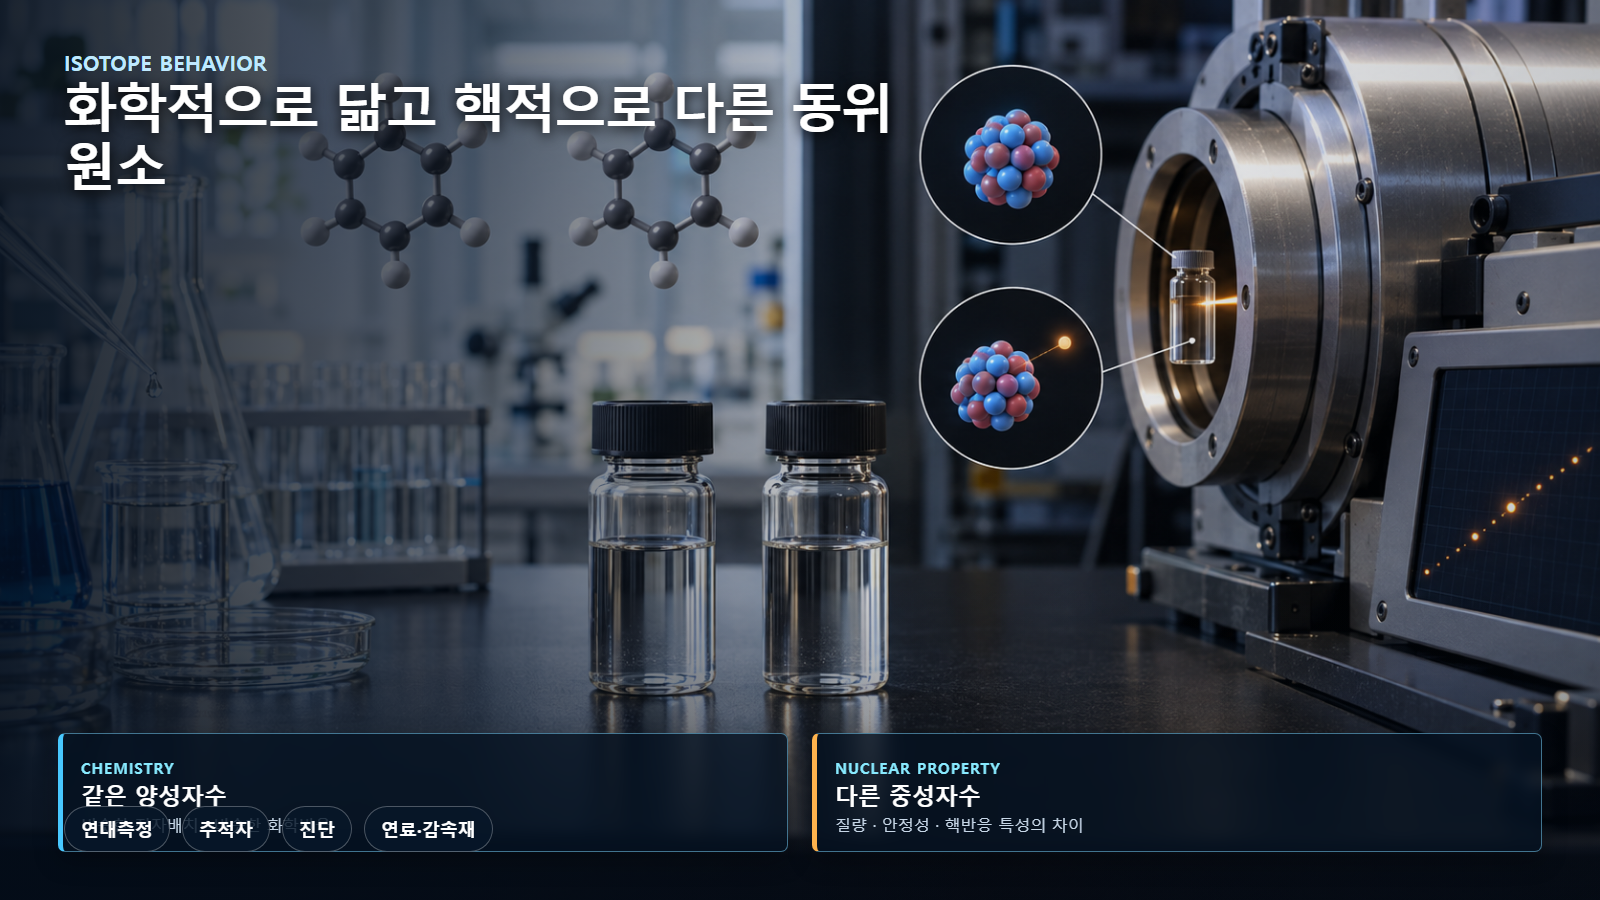
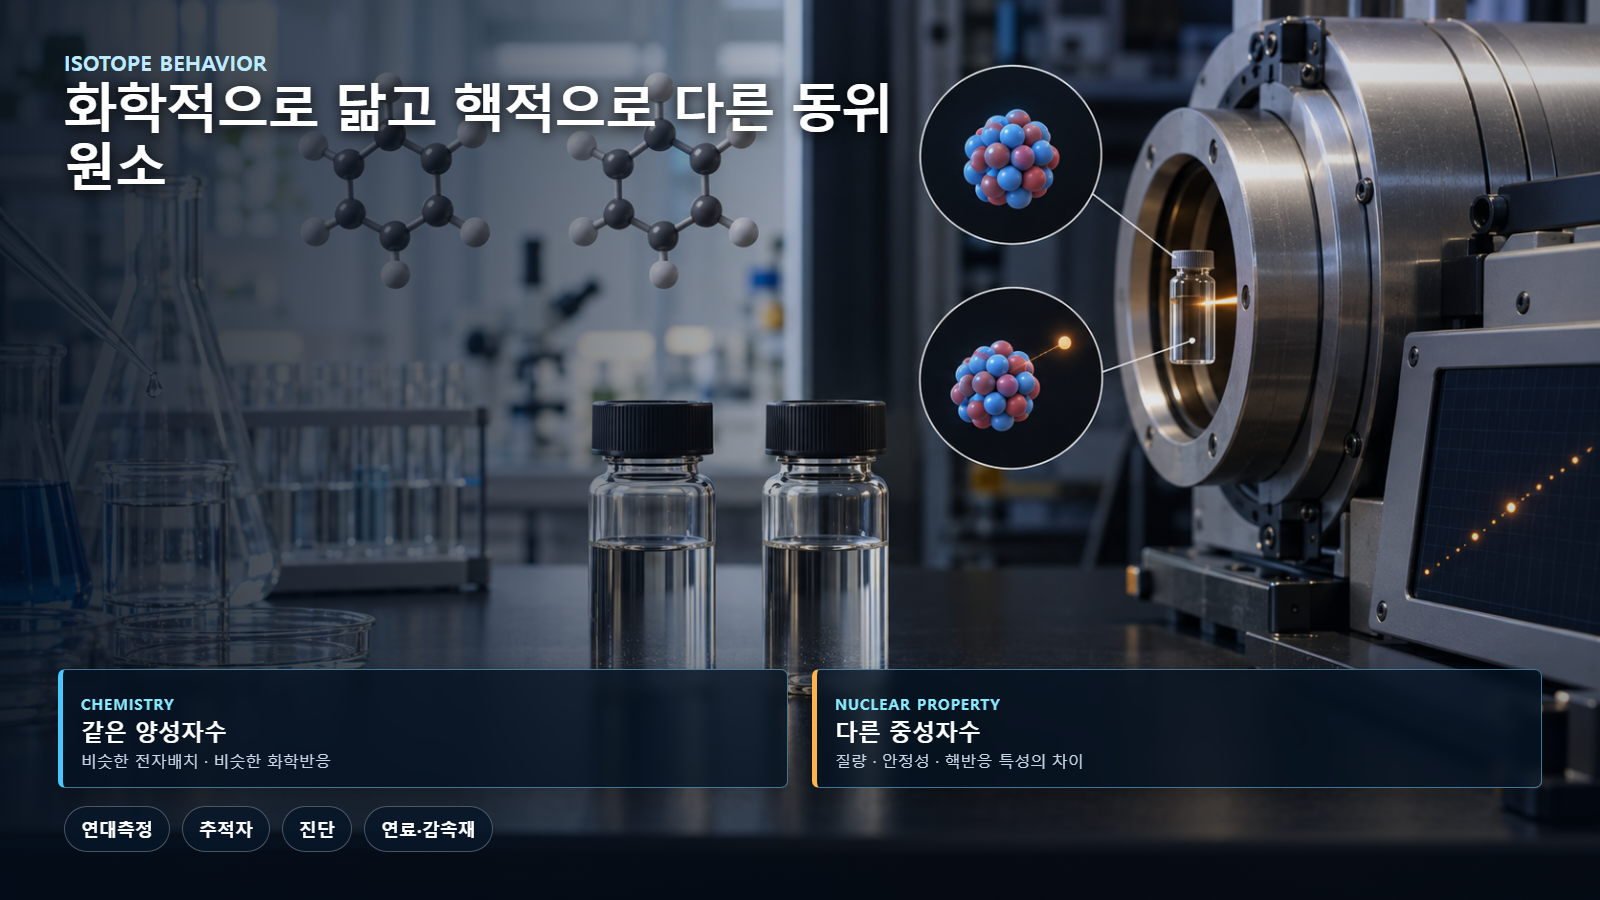
Fix isotope graphic label spacing

Changed region(s): [[0.0312, 0.7156, 0.9375, 0.9333], [0.8438, 0.7156, 0.9688, 0.8089], [0.1562, 0.9022, 0.1875, 0.9333]]

diff --git a/assets/images/theory/series-01/hybrid-v2/005-body-02.html b/assets/images/theory/series-01/hybrid-v2/005-body-02.html
@@ -1,1 +1,1 @@
-<!doctype html><meta charset="utf-8"><link rel="stylesheet" href="composite.css"><div class="canvas" style="background-image:url('005-body-02-base.png')"><header class="title"><p>ISOTOPE BEHAVIOR</p><h1>화학적으로 닮고 핵적으로 다른 동위원소</h1></header><div class="split"><div class="chip"><span class="tag">CHEMISTRY</span><br>같은 양성자수<small>비슷한 전자배치 · 비슷한 화학반응</small></div><div class="chip"><span class="tag">NUCLEAR PROPERTY</span><br>다른 중성자수<small>질량 · 안정성 · 핵반응 특성의 차이</small></div></div><div class="bottom"><span class="pill">연대측정</span><span class="pill">추적자</span><span class="pill">진단</span><span class="pill">연료·감속재</span></div></div>
+<!doctype html><meta charset="utf-8"><link rel="stylesheet" href="composite.css"><div class="canvas" style="background-image:url('005-body-02-base.png')"><header class="title"><p>ISOTOPE BEHAVIOR</p><h1>화학적으로 닮고 핵적으로 다른 동위원소</h1></header><div class="split" style="bottom:112px"><div class="chip"><span class="tag">CHEMISTRY</span><br>같은 양성자수<small>비슷한 전자배치 · 비슷한 화학반응</small></div><div class="chip"><span class="tag">NUCLEAR PROPERTY</span><br>다른 중성자수<small>질량 · 안정성 · 핵반응 특성의 차이</small></div></div><div class="bottom"><span class="pill">연대측정</span><span class="pill">추적자</span><span class="pill">진단</span><span class="pill">연료·감속재</span></div></div>
